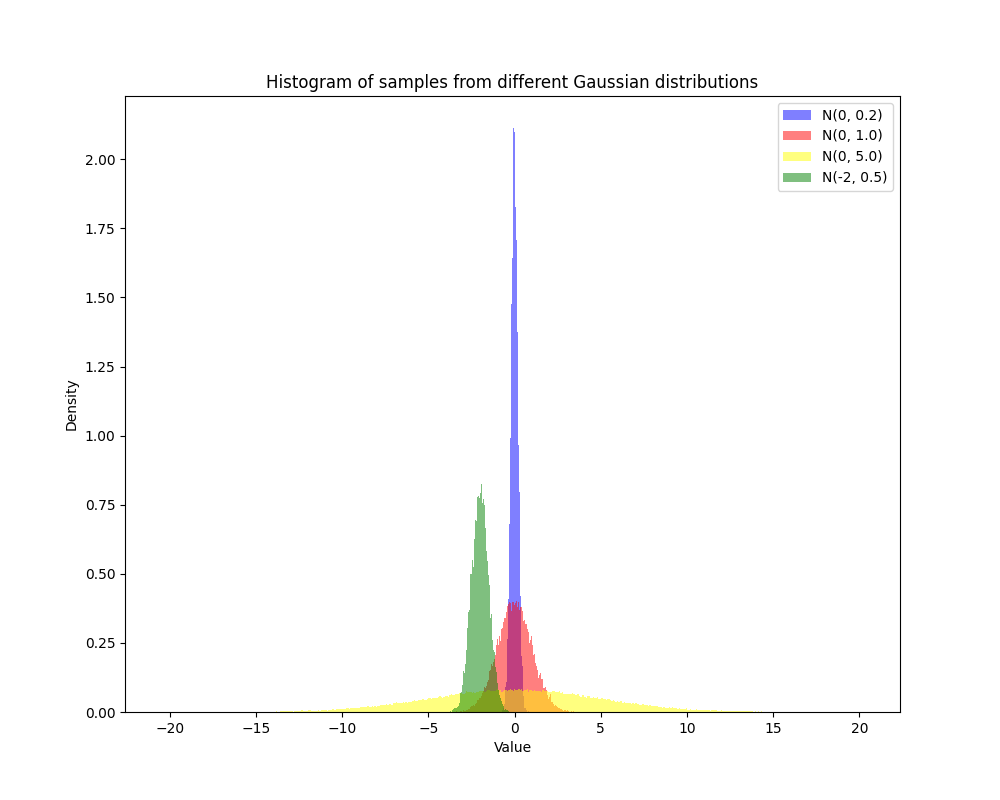
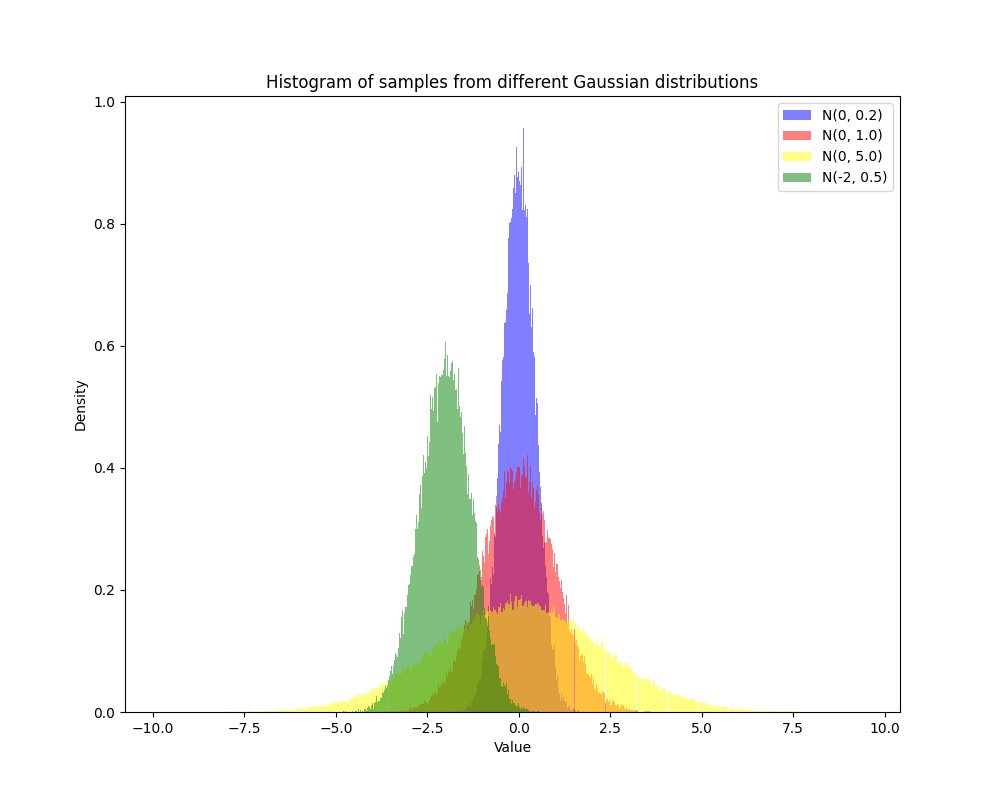
Modified image

diff --git a/Assignment2/q2/2c.py b/Assignment2/q2/2c.py
@@ -1,29 +1,28 @@
 import numpy as np
 import matplotlib.pyplot as plt
 from scipy.stats import norm
+import math
 
-def sample(loc, scale):
-    uniform_sample = np.random.uniform(0, 1)
-    gaussian_sample = norm.ppf(uniform_sample, loc=loc, scale=scale)
+def sample(loc, scale, size):
+    uniform_sample = np.random.uniform(0, 1, size)
+    gaussian_sample = norm.ppf(uniform_sample, loc=loc, scale=math.sqrt(scale))
     return gaussian_sample
 
 N = 10**5
 params = [(0, 0.2), (0, 1.0), (0, 5.0), (-2, 0.5)]
 
 gaussian_samples=[]
-for i in range(N):
-    entry=[]
-    for param in params:
-        entry.append(sample(param[0], param[1]))
-    gaussian_samples.append(entry)
+for param in params:
+    gaussian_samples.append(sample(param[0], param[1], N))
     
-gaussian_samples=np.array(gaussian_samples).T
+gaussian_samples=np.array(gaussian_samples)
 
 plt.figure(figsize=(10, 8))
-plt.hist(gaussian_samples[0], bins=500, density=True, alpha=0.5, label="N(0, 0.2)", color='blue')
-plt.hist(gaussian_samples[1], bins=500, density=True, alpha=0.5, label="N(0, 1.0)", color='red')
-plt.hist(gaussian_samples[2], bins=500, density=True, alpha=0.5, label="N(0, 5.0)", color='yellow')
-plt.hist(gaussian_samples[3], bins=500, density=True, alpha=0.5, label="N(-2, 0.5)", color='green')
+plt.xlim(-6,6)
+plt.hist(gaussian_samples[0], bins='auto', density=True, alpha=0.5, label=r'$N(\mu=0, \sigma^2=0.2)$', color='blue')
+plt.hist(gaussian_samples[1], bins='auto', density=True, alpha=0.5, label=r'$N(\mu=0, \sigma^2=1.0)$', color='red')
+plt.hist(gaussian_samples[2], bins='auto', density=True, alpha=0.5, label=r'$N(\mu=0, \sigma^2=5.0)$', color='yellow')
+plt.hist(gaussian_samples[3], bins='auto', density=True, alpha=0.5, label=r'$N(\mu=-2, \sigma^2=0.5)$', color='green')
 plt.legend()
 plt.title("Histogram of samples from different Gaussian distributions")
 plt.xlabel("Value")

diff --git a/Assignment2/q5.tex b/Assignment2/q5.tex
@@ -15,7 +15,7 @@
 
 \question{\bf A Pretty “Normal" Mixture}
 
-Task A:
+\textbf{Task A:}
 \begin{solution}
 \begin{align*}
 F_{A}(c)&=P(A<c)\\
@@ -35,14 +35,14 @@ f_A(c) &= \frac{d}{dc} F_A(c)\\
 The PDF of the GMM variable X is $f_x$, given by $f_X(x)=\sum_{i=1}^{K} p_i \cdot f_{X_i}(x)$, which is exactly same as the one I got from my algorithm. Hence, $\forall u \in R, f_A(u)=f_X(u)$.
 \end{solution}
 
-Task B:
+\textbf{Task B:}
 \begin{solution}
 Part 3:\\
 \begin{align*}
 M_X(t)&=E(e^{tX})\\
-&=\int_{-\infty}^{\infty} e^{tx} f_X(x)\\
-&=\int_{-\infty}^{\infty} e^{tx}  \cdot (\sum_{i=1}^{K} p_i \cdot f_{X_i}(x))\\
-&=\sum_{i=1}^{K} (p_i \int_{-\infty}^{\infty} e^{tx} \cdot f_{X_i}(x))\\
+&=\int_{-\infty}^{\infty} e^{tx} f_X(x) dx\\
+&=\int_{-\infty}^{\infty} e^{tx}  \cdot (\sum_{i=1}^{K} p_i \cdot f_{X_i}(x)) dx\\
+&=\sum_{i=1}^{K} (p_i \int_{-\infty}^{\infty} e^{tx} \cdot f_{X_i}(x) dx )\\
 &=\sum_{i=1}^{K} p_i E(e^{t X_i})\\
 &=\sum_{i=1}^{K} p_i \cdot e^{\mu_i t + \frac{\sigma_i^2 t^2}{2}}
 \end{align*}
@@ -86,7 +86,7 @@ Now, the variance \( \text{Var}(X) \) is:
 \]
 \end{solution}
 
-Task C:
+\textbf{Task C:}
 \begin{solution}
 
 ATQ, $Z=\sum_{i=1}^K p_i X_i$.
@@ -156,7 +156,7 @@ Part 6:\\
 As concluded in part 3, Z is a gaussian.
 \end{solution}
 
-Task D:\\
+\textbf{Task D:}\\
 \begin{solution}
 Let \( X \) be a finite discrete random variable taking values \( x_1, x_2, \dots, x_n \) with respective probabilities \( P(X = x_i) = p_i \), for \( i = 1, 2, \dots, n \).\\
 
